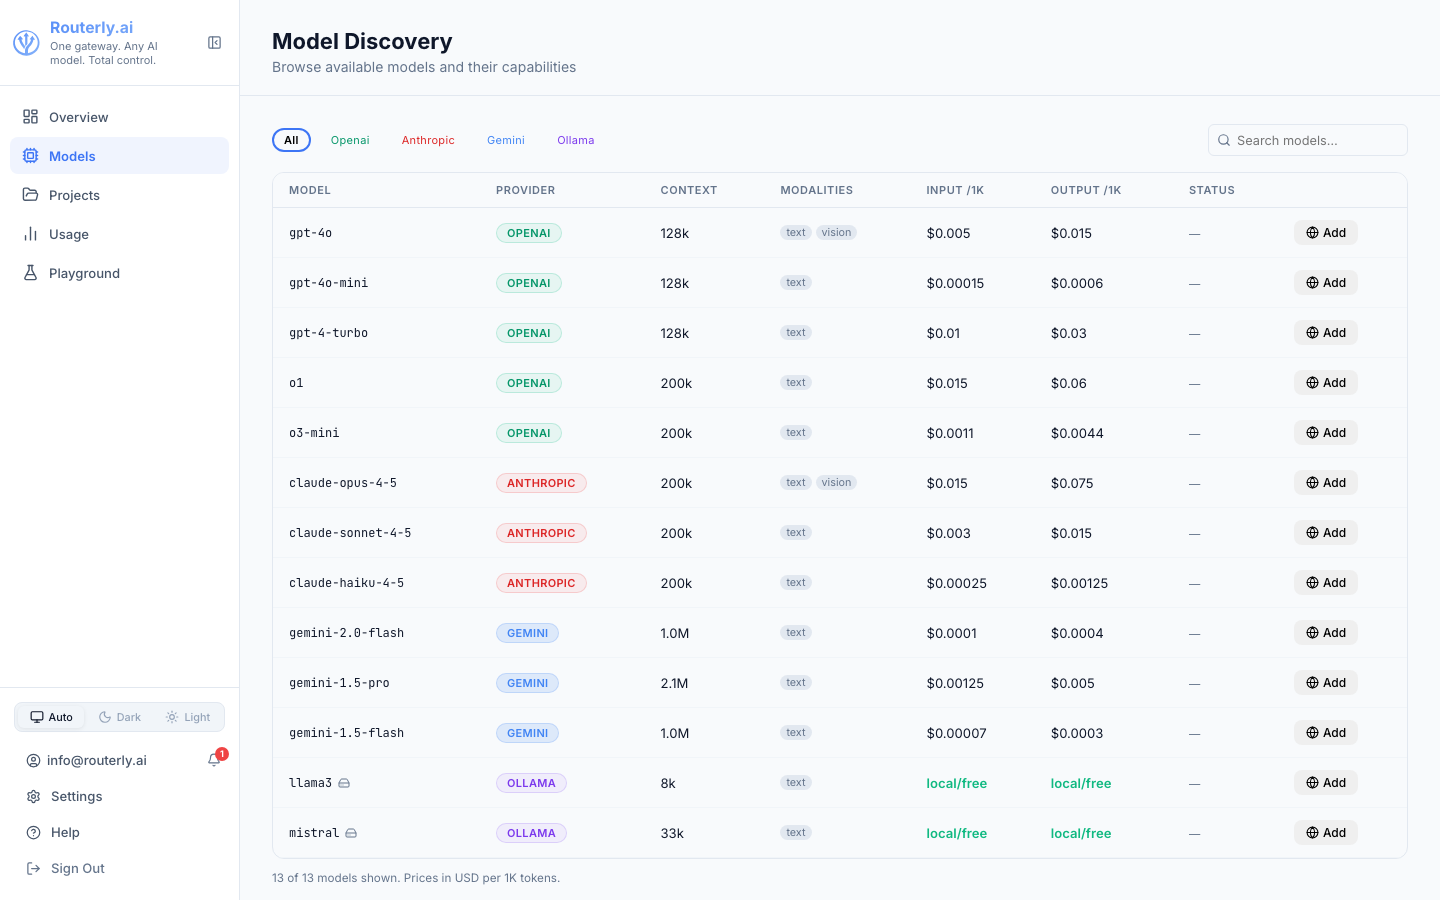
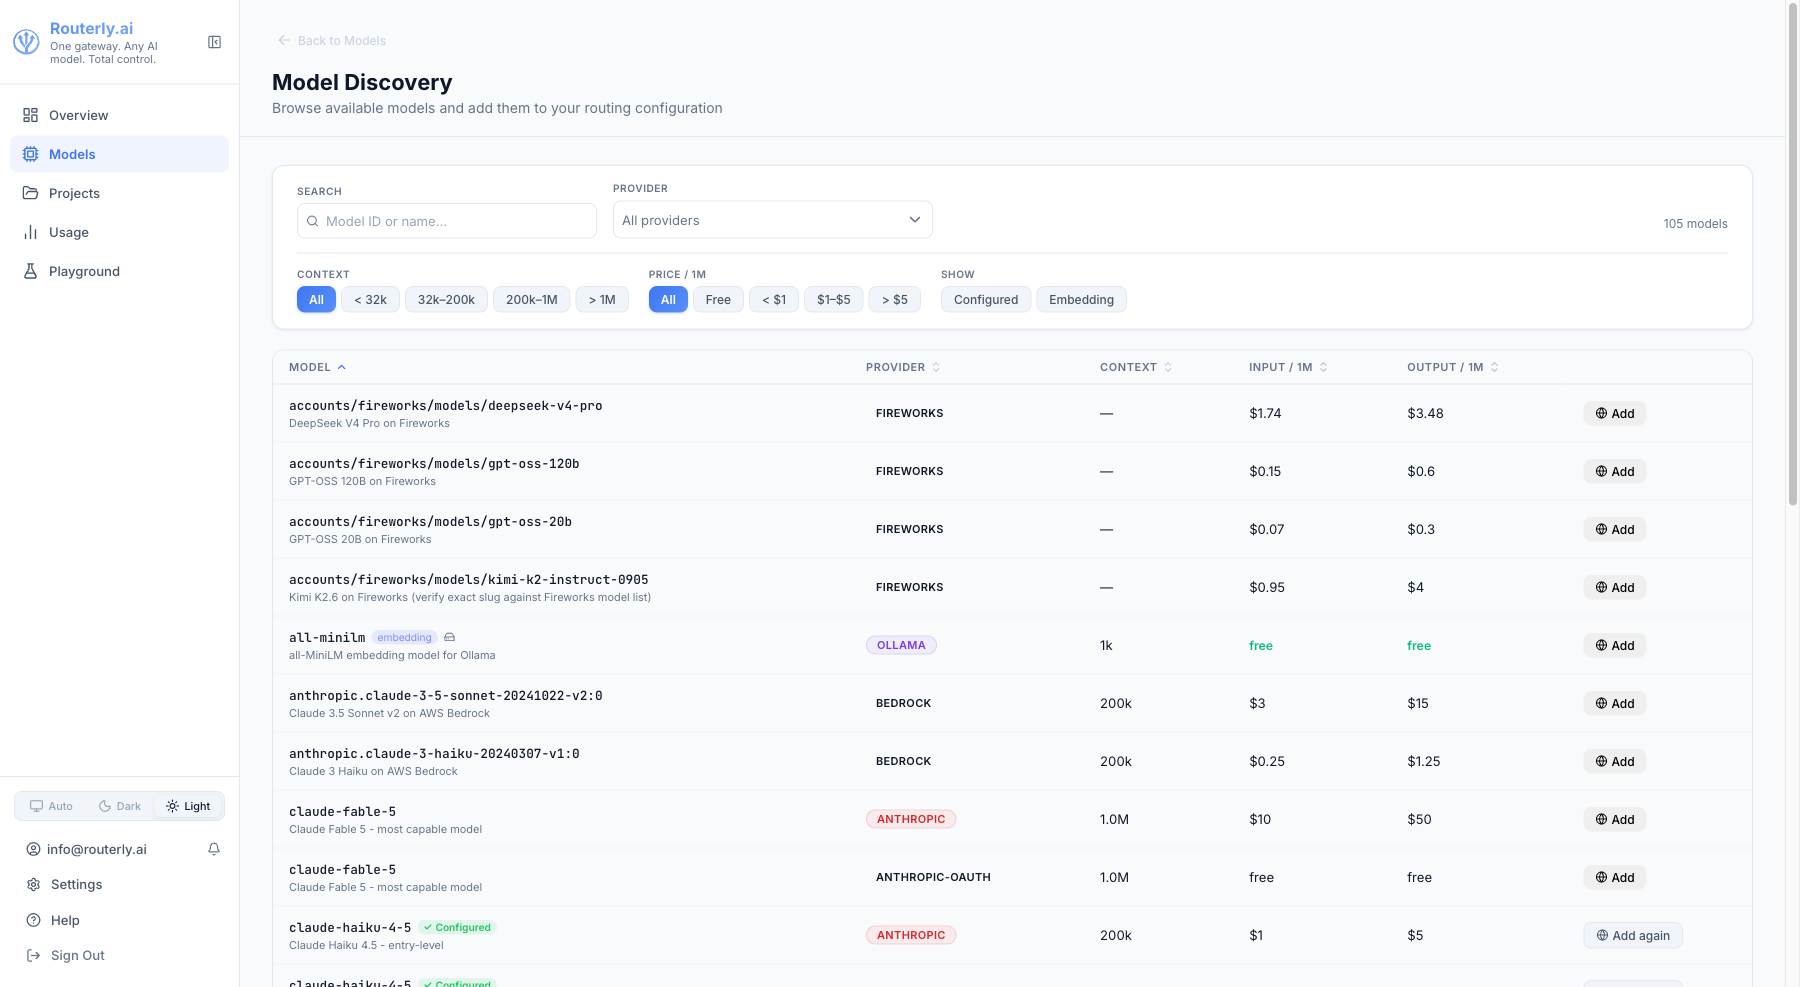
docs: add light-mode screenshots to all dashboard pages and key getting-started docs
- Capture screenshots in light mode for all dashboard pages:
  overview, models (list + discover + add form), projects, usage,
  playground (empty + trace), settings (general + notifications +
  integrations + users + roles), profile, login
- Add screenshot-playground-trace.png showing Debug panel after a
  successful request (routing trace + token/cost breakdown)
- Add image references to docs pages that had none:
  dashboard/overview.md, dashboard/projects.md,
  dashboard/users-and-roles.md, dashboard/setup.md
- Add screenshots to settings.md (general + notifications + integrations
  tabs); fix broken image path ./screenshot-integrations.png ->
  ../assets/screenshot-settings-integrations.png
- Add overview screenshot to intro.md
- Add models and usage screenshots to getting-started/quick-start.md

diff --git a/docs/dashboard/settings.md b/docs/dashboard/settings.md
@@ -13,6 +13,8 @@ Open Settings from the **Settings** item in the sidebar.
 
 ## General Tab
 
+![Settings General tab showing server info, runtime settings, and anonymous metrics toggle](../assets/screenshot-settings.png)
+
 ### Service Configuration
 
 | Field | Description |
@@ -29,6 +31,8 @@ Changes are saved immediately and take effect without a restart (except Port and
 ---
 
 ## Notifications Tab {#notifications-tab}
+
+![Settings Notifications tab showing configured channels list with type, events, and action buttons](../assets/screenshot-settings-notifications.png)
 
 Configure notification channels. Each channel routes events to a delivery method (in-app inbox, email, or webhook) and can be scoped to specific event types and recipients.
 
@@ -203,7 +207,7 @@ The list displays all configured integrations in a table with:
 
 Click a row to expand inline details (endpoint, protocol, headers, etc. depending on type).
 
-![Integrations tab showing a configured Prometheus integration with enabled toggle, test button, and remove button](./screenshot-integrations.png)
+![Integrations tab showing configured integrations with enabled toggle, test button, and delete button](../assets/screenshot-settings-integrations.png)
 
 ### Adding an Integration
 

diff --git a/docs/getting-started/quick-start.md b/docs/getting-started/quick-start.md
@@ -51,6 +51,8 @@ On first launch you will see the **Setup** screen. Enter an email address and pa
 
 ## Step 3: Register a Model
 
+![Models page — add a model by clicking + Add Model or use Discover to pre-fill from the catalog](../assets/screenshot-models.png)
+
 A **model** is a specific LLM available through a provider. You register it once with its API key; Routerly reuses it across all projects.
 
 **Via CLI:**
@@ -141,6 +143,8 @@ curl http://localhost:3000/v1/chat/completions \
 ---
 
 ## Step 6: Check Usage
+
+![Usage page showing total cost, call counts, per-model breakdown, and request log](../assets/screenshot-usage.png)
 
 Open **Usage** in the dashboard or use the CLI:
 

diff --git a/docs/dashboard/users-and-roles.md b/docs/dashboard/users-and-roles.md
@@ -35,6 +35,8 @@ Routerly has a role-based access control (RBAC) system for the dashboard. Users 
 
 ## Managing Users
 
+![Users list showing email, role badge, and action buttons](../assets/screenshot-settings-users.png)
+
 ### Adding a User
 
 1. Open **Users** in the sidebar
@@ -55,6 +57,8 @@ Click the **Delete** icon and confirm. The user's session is invalidated immedia
 ---
 
 ## Custom Roles
+
+![Roles page showing built-in roles and their permission badges](../assets/screenshot-settings-roles.png)
 
 Custom roles let you define granular permission sets for specific team members.
 

diff --git a/docs/dashboard/projects.md b/docs/dashboard/projects.md
@@ -11,6 +11,8 @@ The Projects page gives you an overview of all projects and provides access to e
 
 ## Projects List
 
+![Projects list showing project names, slugs, token count, and daily cost summary](../assets/screenshot-projects.png)
+
 The list shows each project's name, slug, number of tokens, assigned models, and a summary of today's cost and call count.
 
 Click any project to open its detail view, which has seven tabs.

diff --git a/docs/dashboard/overview.md b/docs/dashboard/overview.md
@@ -7,6 +7,8 @@ sidebar_position: 2
 
 The Overview page is the dashboard home screen. It shows a snapshot of activity across all projects for the selected time period.
 
+![Overview page showing summary cards, cost chart, and per-model call breakdown](../assets/screenshot-overview.png)
+
 ---
 
 ## Period Selector

diff --git a/docs/dashboard/setup.md b/docs/dashboard/setup.md
@@ -18,6 +18,8 @@ The Setup screen appears the first time you open the Routerly dashboard at `http
 
 After account creation you are redirected to the login page. Log in with the credentials you just created.
 
+![Login page after completing setup](../assets/screenshot-login.png)
+
 ---
 
 ## Setup API

diff --git a/docs/intro.md b/docs/intro.md
@@ -126,6 +126,8 @@ Open `http://localhost:3000/dashboard` to manage everything from the web UI.
 
 ---
 
+![Routerly dashboard overview showing cost cards, chart, and per-model breakdown](./assets/screenshot-overview.png)
+
 ## Next Steps
 
 - [Install Routerly](./getting-started/installation.md)
